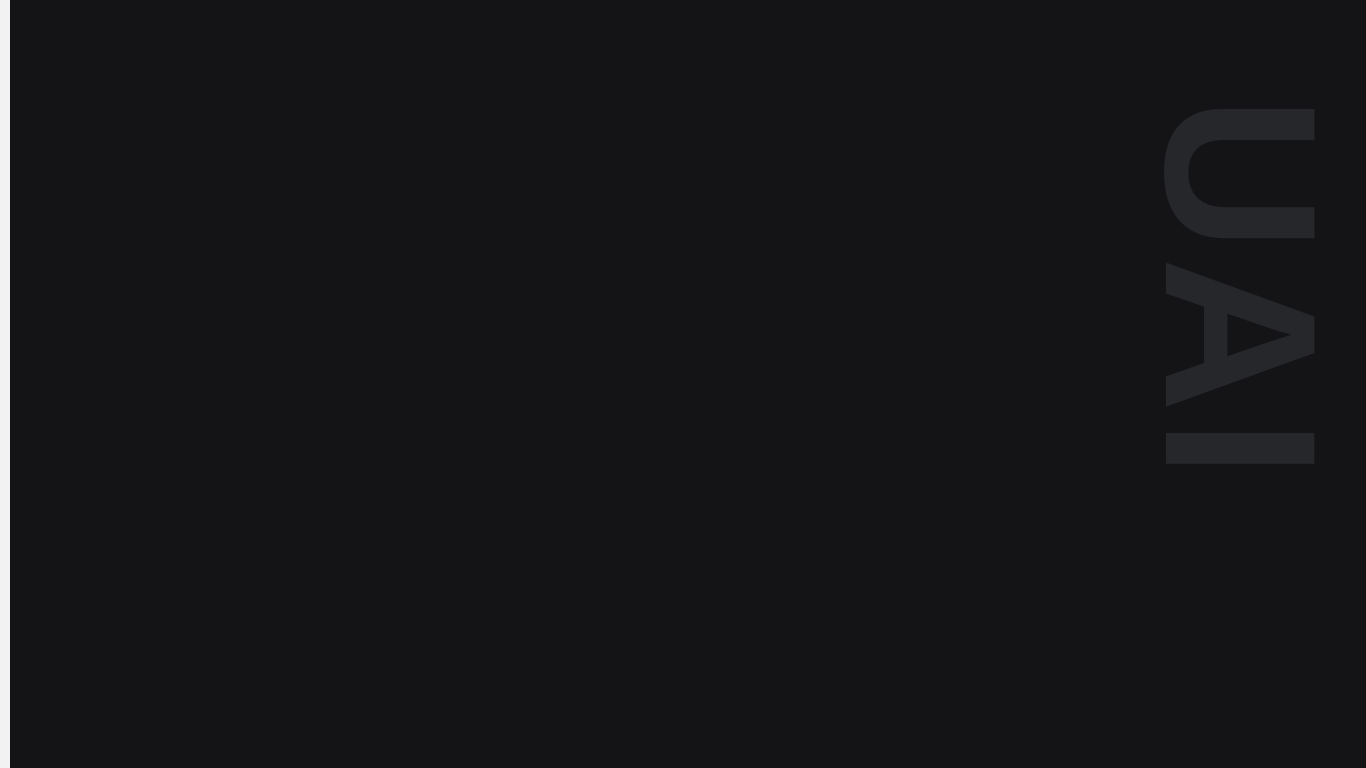
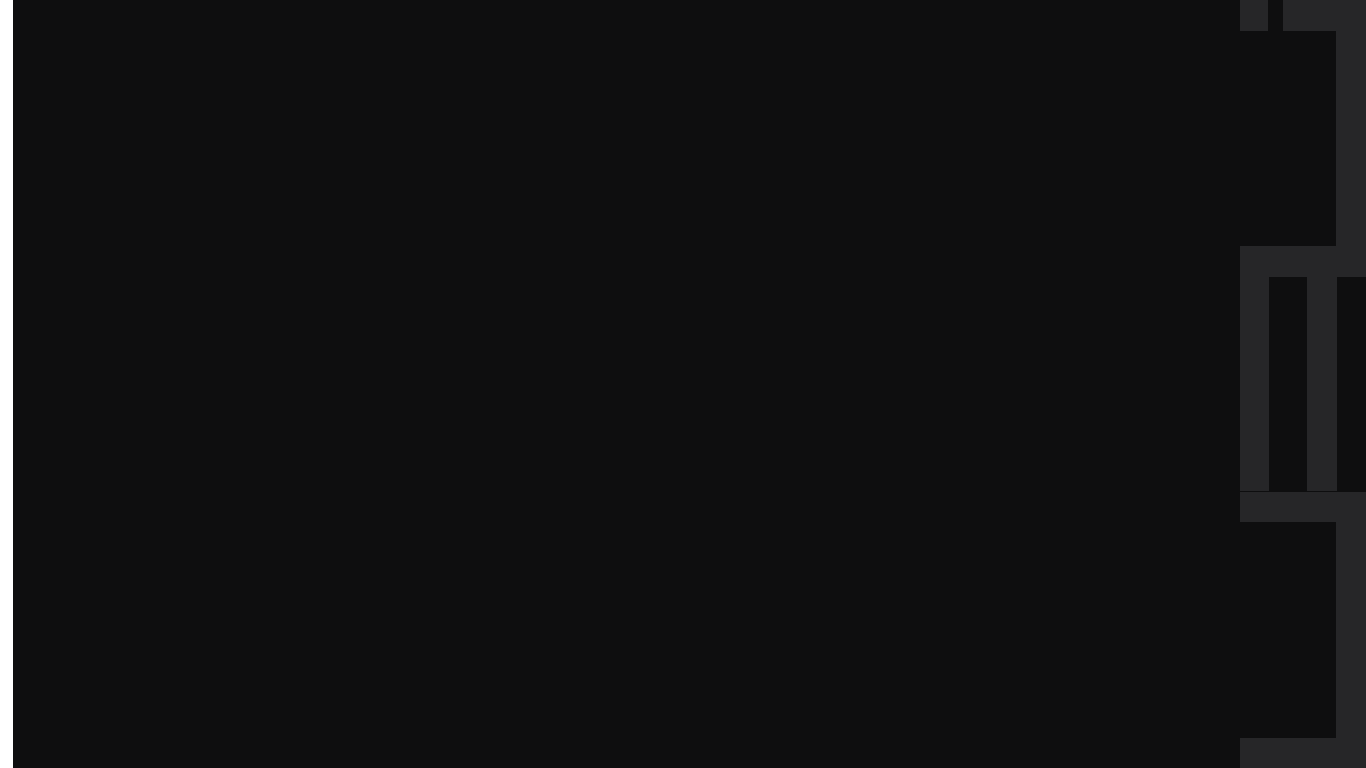
Fondo oficial UAI (franja + letras en rectángulos) en claro y oscuro
Claude-Session: https://claude.ai/code/session_018uFU4P9QkaWXr2H5UAix7x

Changed region(s): [[0.8302, 0.125, 0.9839, 0.3125], [0.8302, 0.3438, 0.9839, 0.5312], [0.8302, 0.5625, 0.9839, 0.625]]

diff --git a/generador/tema.py b/generador/tema.py
@@ -8,14 +8,14 @@ from nav import cinta
 
 CLARO = ('{bg: ColorValue("#FFFFFF"), tx: ColorValue("#111111"), sub: ColorValue("#3F4247"), mut: ColorValue("#8A8D91"), '
          'inp: ColorValue("#FFFFFF"), inpRO: ColorValue("#F7F7F8"), line: RGBA(17, 17, 17, 0.14), lineStrong: ColorValue("#111111"), '
-         'hBg: "#FFFFFF", hFranja: "#111111", hMarca: "#E6E7E9", '
+         'hBg: "#FFFFFF", hFranja: "#000000", hMarca: "#EDEDED", '
          'hGlass: "background:rgba(255,255,255,0.62);backdrop-filter:blur(22px) saturate(150%);-webkit-backdrop-filter:blur(22px) saturate(150%);'
          'box-shadow:0 16px 36px rgba(17,17,17,0.12),inset 0 1px 0 rgba(255,255,255,0.95)", '
          'hBorde: "1px solid rgba(255,255,255,0.85)", hTx: "#111111", hSub: "#3F4247", hMut: "#8A8D91", hLin: "rgba(17,17,17,0.08)", '
          'hPos: "#111111", hPosTx: "#FFFFFF"}')
-OSCURO = ('{bg: ColorValue("#141416"), tx: ColorValue("#F2F2F3"), sub: ColorValue("#C4C7CC"), mut: ColorValue("#9A9DA2"), '
+OSCURO = ('{bg: ColorValue("#0E0E0F"), tx: ColorValue("#F2F2F3"), sub: ColorValue("#C4C7CC"), mut: ColorValue("#9A9DA2"), '
           'inp: ColorValue("#2E3034"), inpRO: ColorValue("#26282B"), line: RGBA(191, 195, 200, 0.28), lineStrong: ColorValue("#BFC3C8"), '
-          'hBg: "#141416", hFranja: "#F2F2F3", hMarca: "#26272B", '
+          'hBg: "#0E0E0F", hFranja: "#FFFFFF", hMarca: "#262628", '
           'hGlass: "background:rgba(38,39,43,0.55);backdrop-filter:blur(16px);-webkit-backdrop-filter:blur(16px);'
           'box-shadow:0 16px 36px rgba(0,0,0,0.45),inset 0 1px 0 rgba(255,255,255,0.08)", '
           'hBorde: "1px solid rgba(191,195,200,0.22)", hTx: "#F2F2F3", hSub: "#C4C7CC", hMut: "#9A9DA2", hLin: "rgba(191,195,200,0.16)", '
@@ -80,7 +80,7 @@ def fondo(sfx):
           Properties:
             Fill: =RGBA(0, 0, 0, 0)
             Height: =768
-            HtmlText: ="<div style='position:relative;width:1366px;height:768px;overflow:hidden;background:" & varT.hBg & "'><div style='position:absolute;left:0;top:0;width:10px;height:768px;background:" & varT.hFranja & "'></div><div style='position:absolute;right:18px;top:96px;height:672px;writing-mode:vertical-rl;font-family:Arial Black,Arial,sans-serif;font-weight:900;font-size:215px;line-height:1;letter-spacing:6px;color:" & varT.hMarca & "'>UAI</div></div>"
+            HtmlText: ="<div style='position:relative;width:1366px;height:768px;overflow:hidden;background:" & varT.hBg & "'><div style='position:absolute;left:0;top:0;width:13px;height:768px;background:" & varT.hFranja & "'></div><div style='position:absolute;left:1240px;top:0px;width:28px;height:31px;background:" & varT.hMarca & "'></div><div style='position:absolute;left:1283px;top:0px;width:83px;height:31px;background:" & varT.hMarca & "'></div><div style='position:absolute;left:1336px;top:31px;width:30px;height:215px;background:" & varT.hMarca & "'></div><div style='position:absolute;left:1240px;top:246px;width:126px;height:31px;background:" & varT.hMarca & "'></div><div style='position:absolute;left:1240px;top:277px;width:29px;height:214px;background:" & varT.hMarca & "'></div><div style='position:absolute;left:1307px;top:277px;width:30px;height:214px;background:" & varT.hMarca & "'></div><div style='position:absolute;left:1240px;top:492px;width:126px;height:30px;background:" & varT.hMarca & "'></div><div style='position:absolute;left:1336px;top:522px;width:30px;height:217px;background:" & varT.hMarca & "'></div><div style='position:absolute;left:1240px;top:738px;width:126px;height:30px;background:" & varT.hMarca & "'></div></div>"
             PaddingBottom: =0
             PaddingLeft: =0
             PaddingRight: =0
